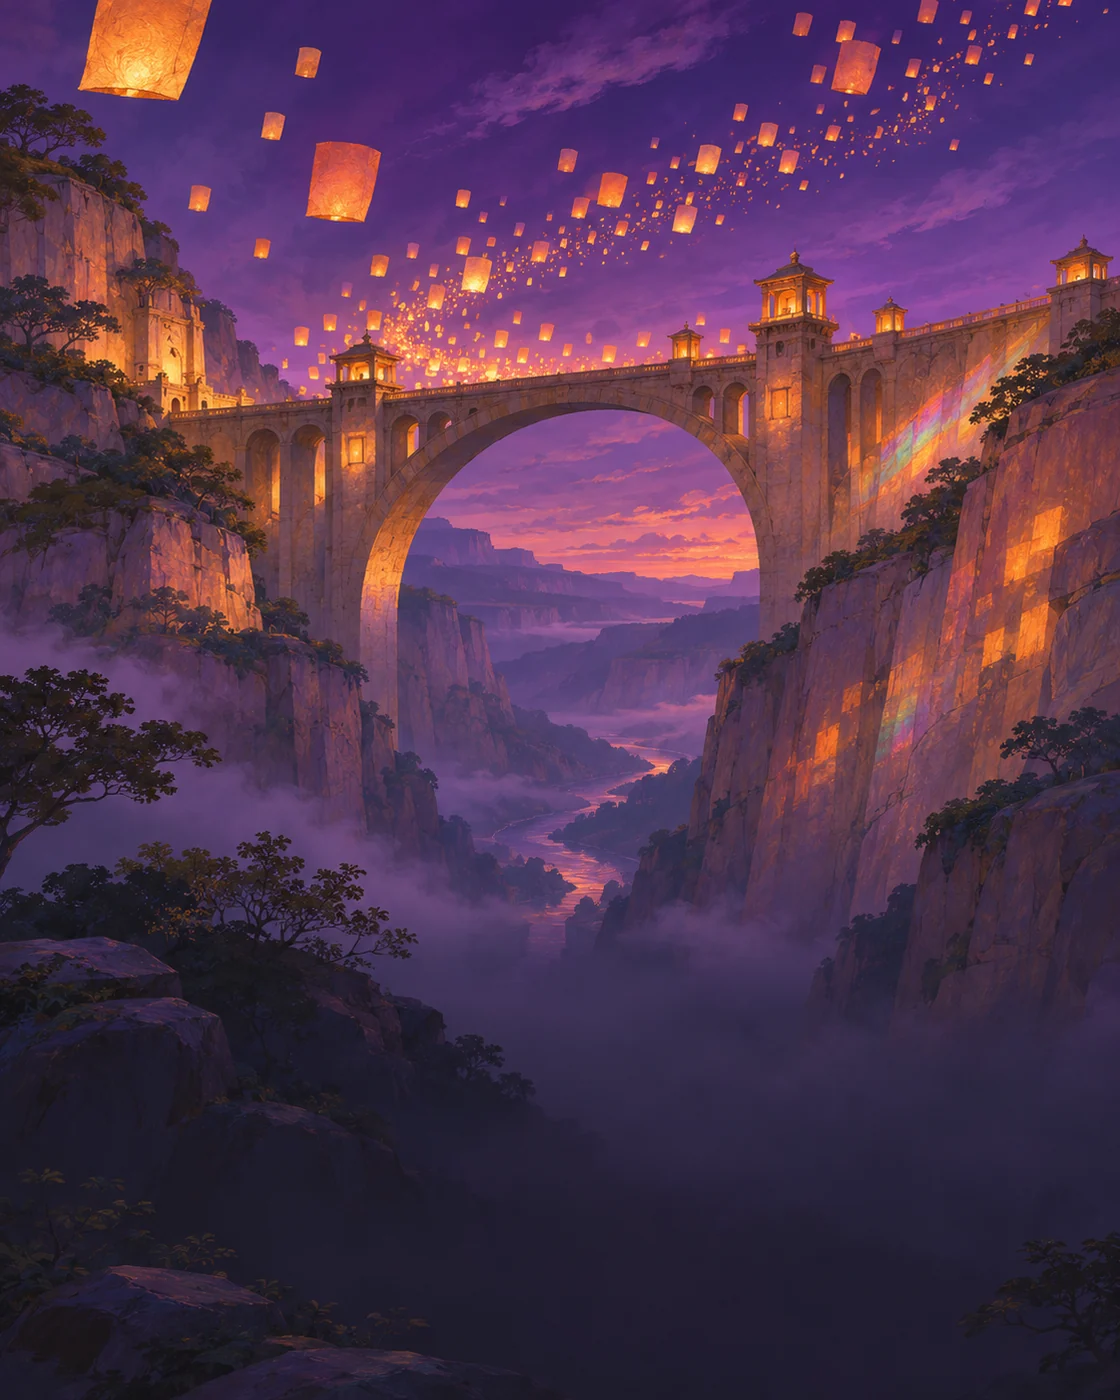
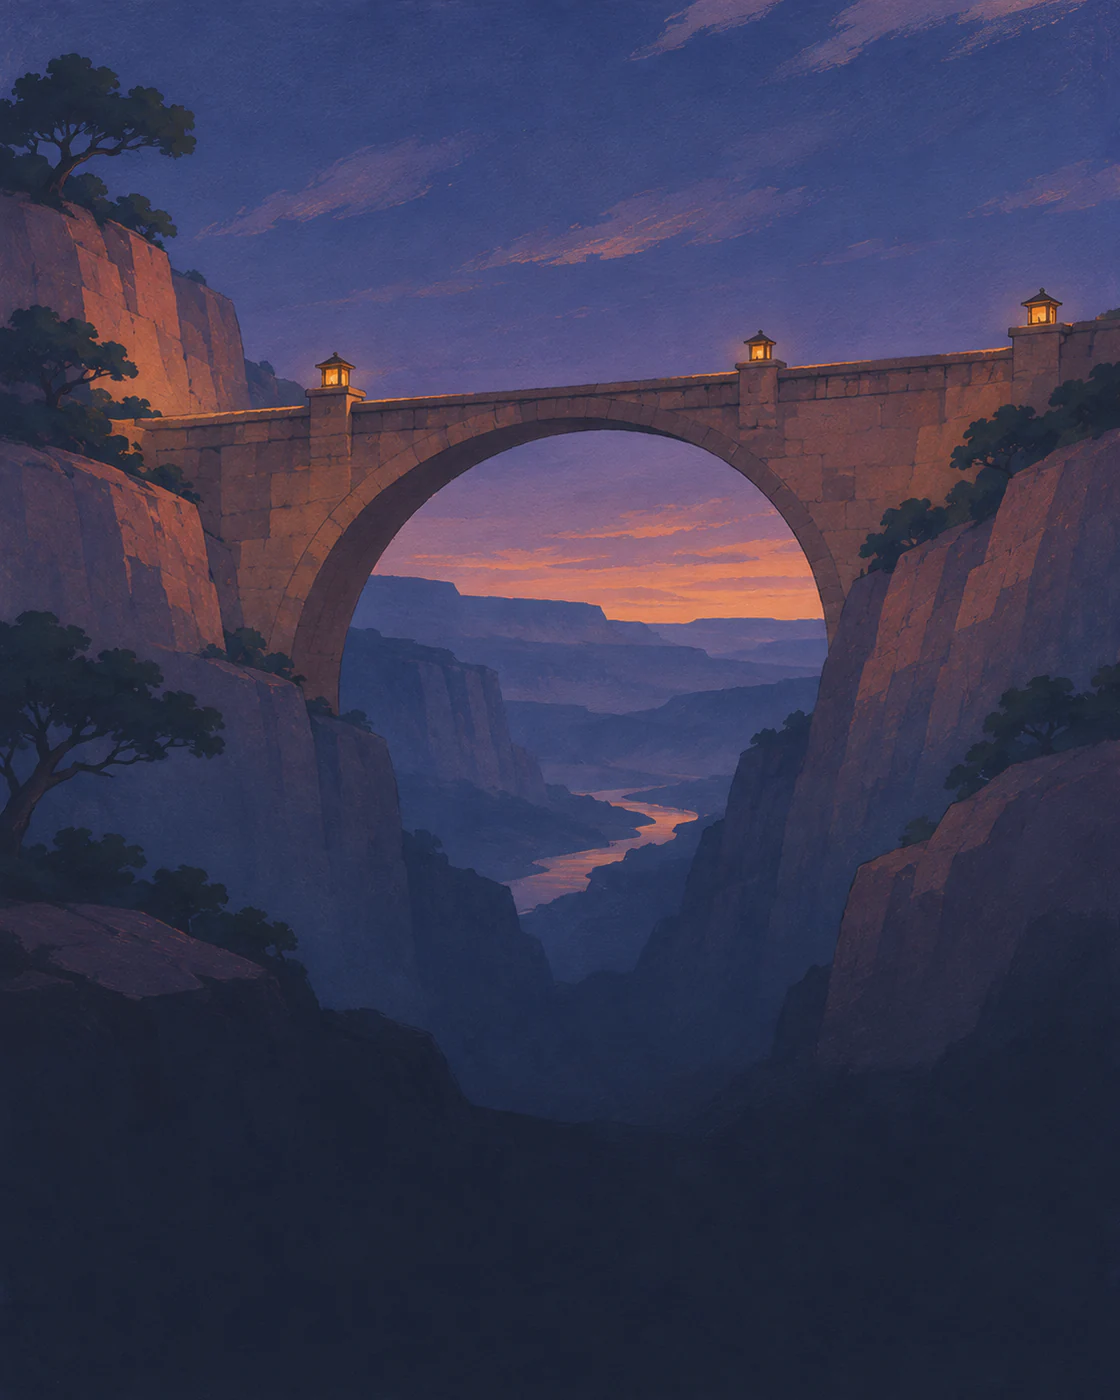
Redraw five sign-in scenes with matte textures and natural lighting

diff --git a/public/visuals/CREDITS.md b/public/visuals/CREDITS.md
@@ -21,4 +21,4 @@ The `scene-*.webp` landscapes are cropped from real photographs and bundled unde
 
 ## Animated sign-in scenes
 
-The five `auth-*.webp` backgrounds are original ImageGen illustrations. They depict the forest archive, glacial library, grassland post office, lantern bridge and underwater archive. Animation, input and lighting layers are rendered by the site.
+The five `auth-*.webp` backgrounds are original illustrations revised with the built-in ImageGen editor. The brief used matte gouache, a visible paper grain, and lighting tied to each scene. The 1120 × 1400 images depict a forest railway archive, a reading room cut into glacial ice, a country post office, a canyon footbridge, and a submerged observatory. Animation, input, and lighting are rendered by the site.
